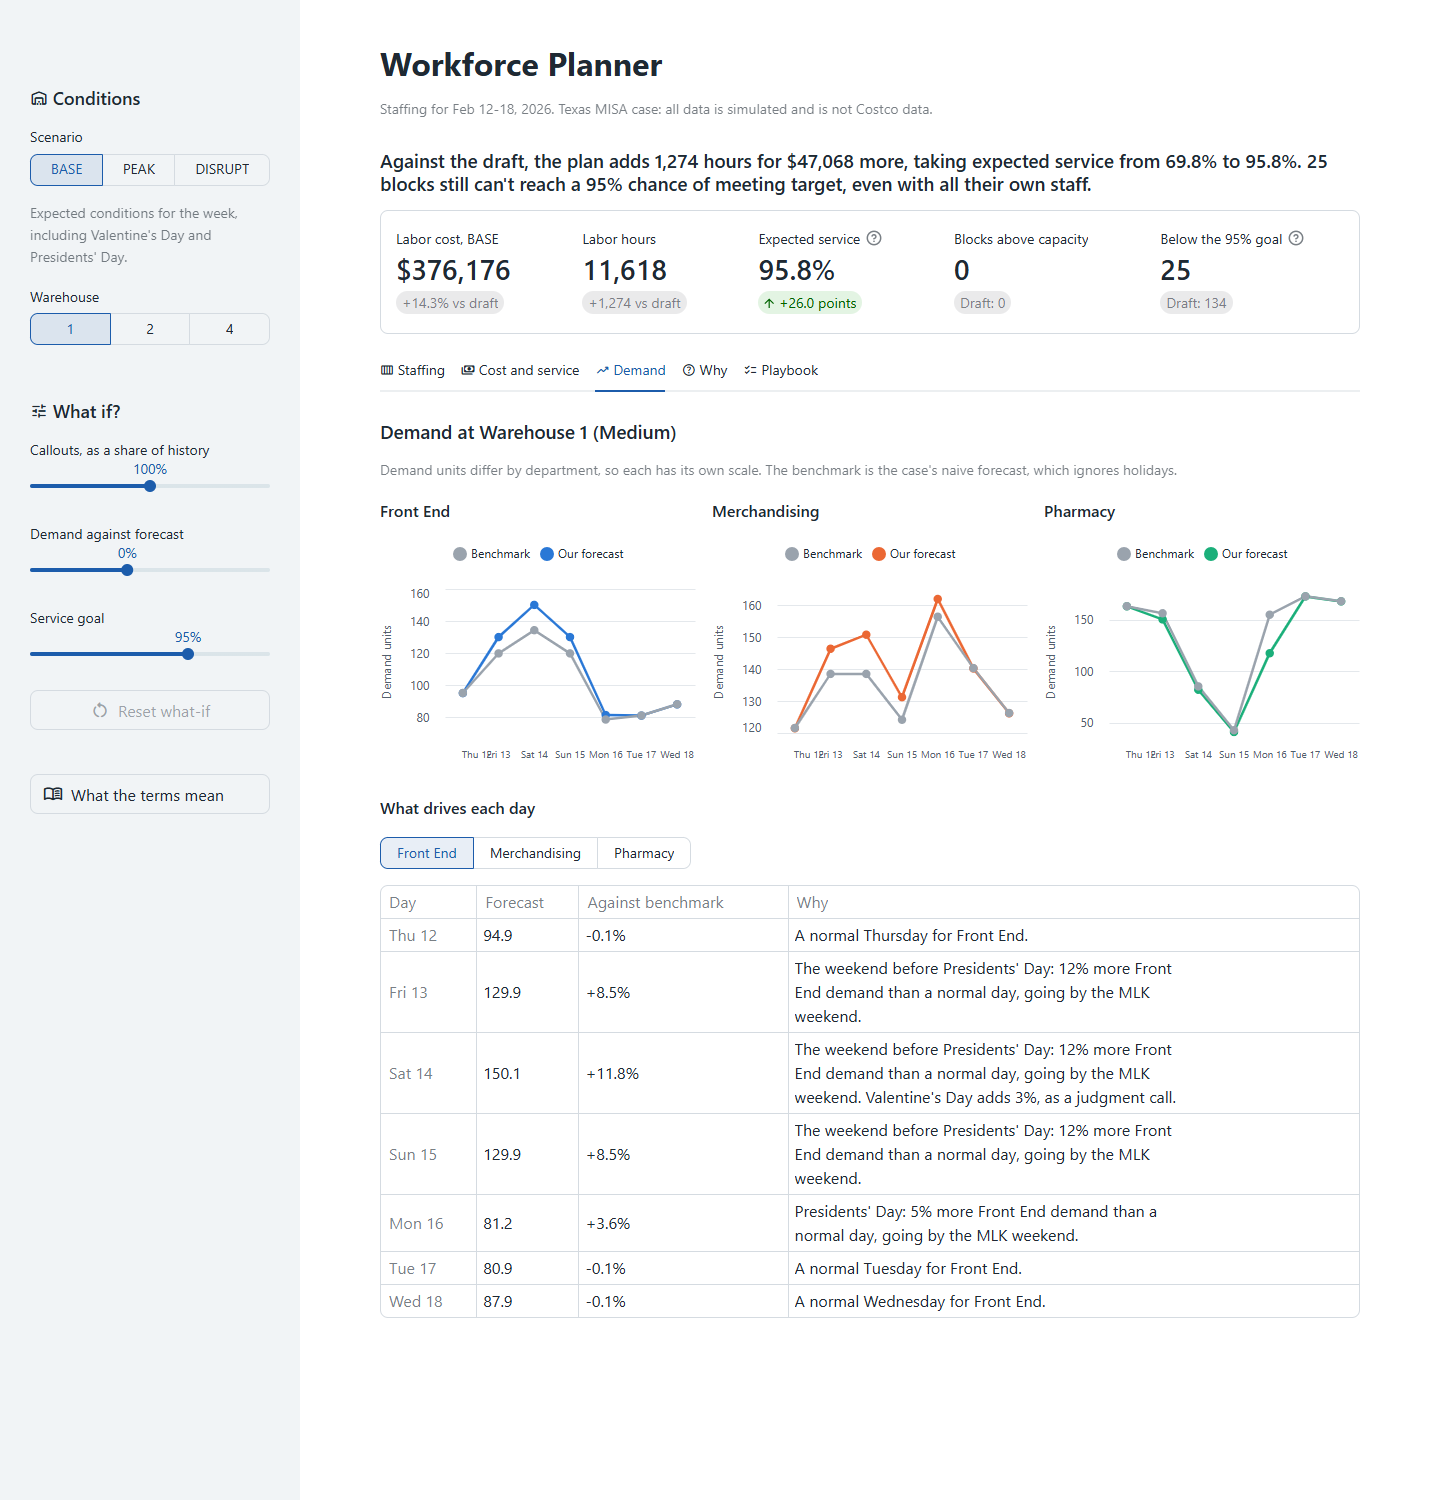
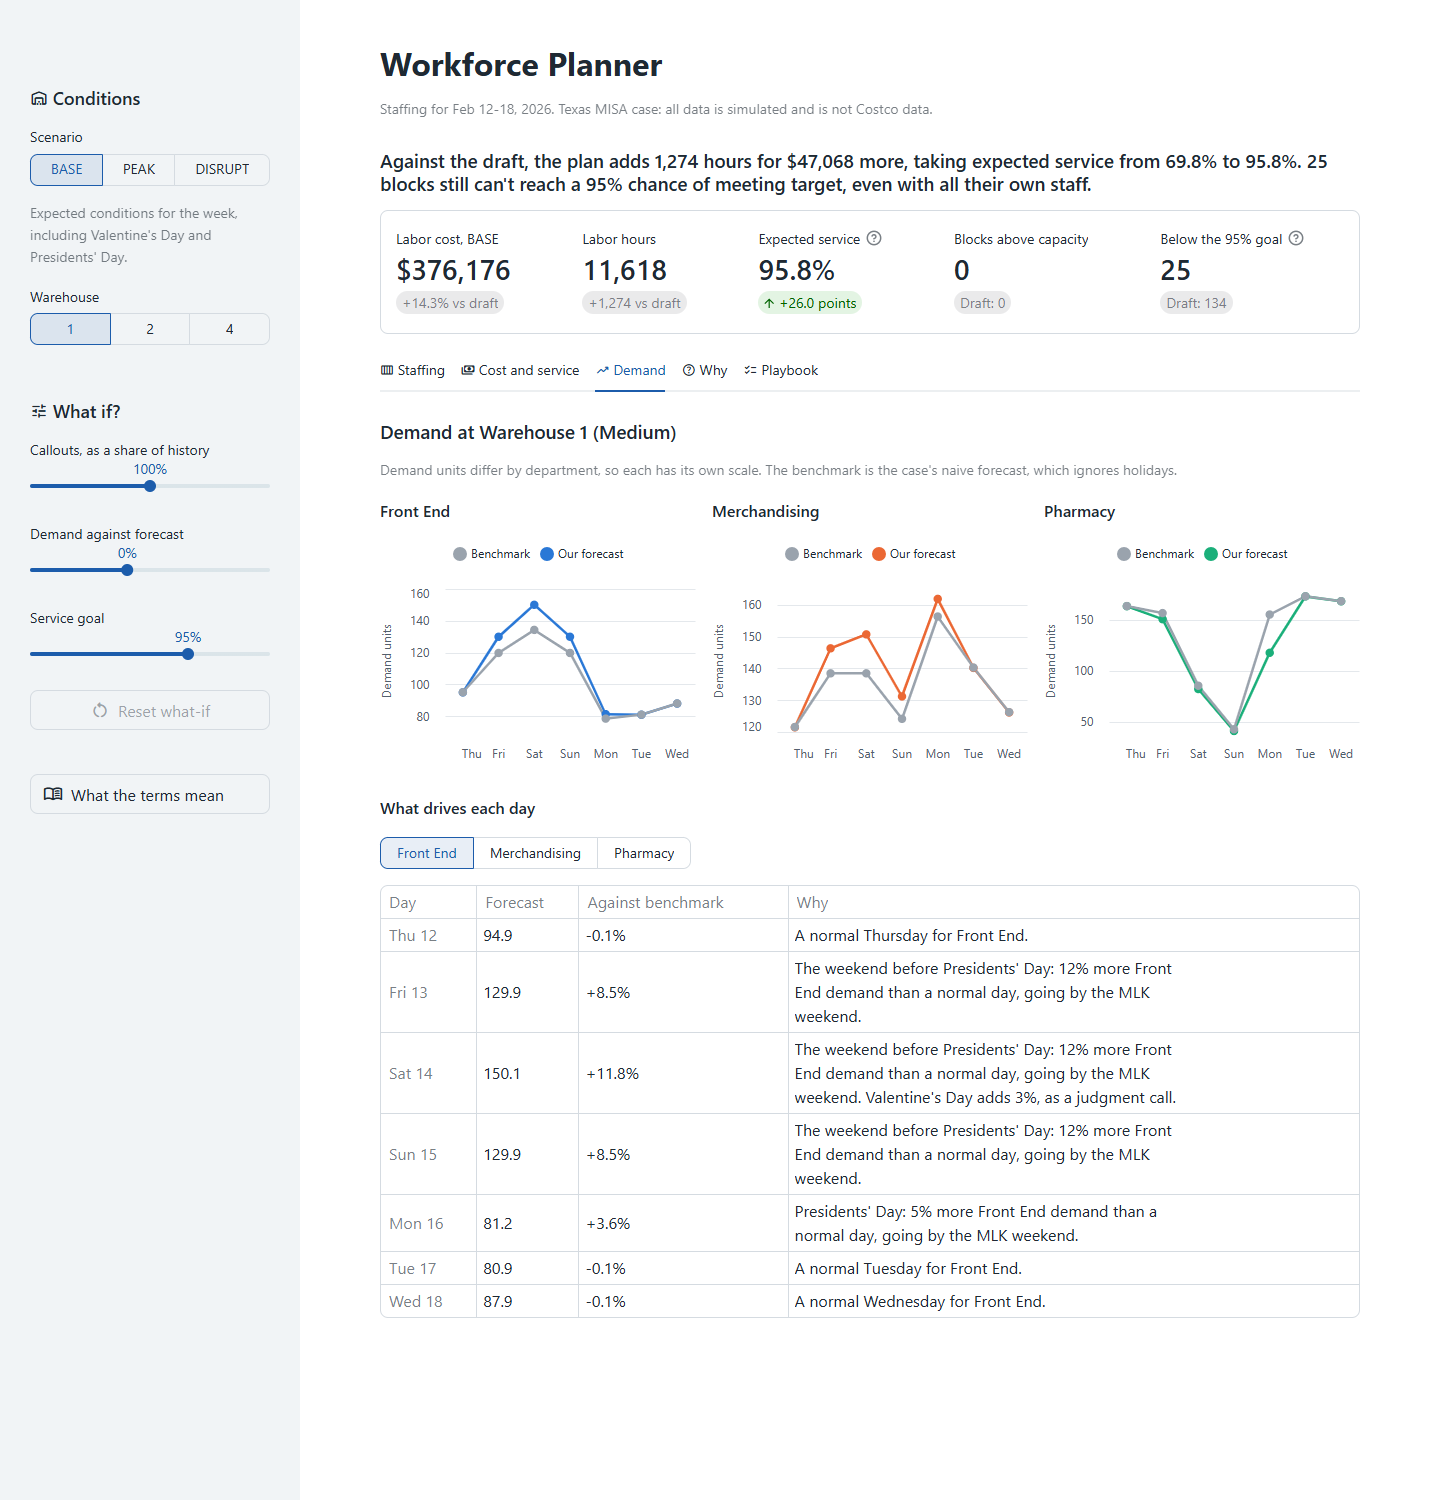
Stop day labels touching on the small demand charts

diff --git a/app.py b/app.py
@@ -113,10 +113,12 @@ def staffing_board(cells: pd.DataFrame, days: list[str]):
     return style(alt.layer(fill, numbers, clickable).resolve_scale(color="independent").properties(height=44 * len(BOARD_ROWS)))
 
 
-def week_lines(frame: pd.DataFrame, days: list[str], value: str, series: str, colors: dict, y_title: str, number_format: str, y_domain=None, height=290, day_size=12):
+def week_lines(frame: pd.DataFrame, days: list[str], value: str, series: str, colors: dict, y_title: str, number_format: str, y_domain=None, height=290, short_days=False):
     """Lines across the week. Hovering over a day shows every series for that day."""
     scale = alt.Scale(domain=list(colors), range=list(colors.values()))
-    x = alt.X("day:N", sort=days, title=None, axis=alt.Axis(labelAngle=0, labelOverlap=False, labelFontSize=day_size, ticks=False))
+    # Narrow charts show only the weekday on the axis. The hover readout still gives the full date.
+    label_text = "split(datum.label, ' ')[0]" if short_days else "datum.label"
+    x = alt.X("day:N", sort=days, title=None, axis=alt.Axis(labelAngle=0, labelOverlap=False, labelExpr=label_text, ticks=False))
     base = alt.Chart(frame).encode(
         x=x,
         y=alt.Y(f"{value}:Q", title=y_title, scale=alt.Scale(domain=y_domain) if y_domain else alt.Scale(zero=False), axis=alt.Axis(ticks=False, domain=False)),
@@ -393,7 +395,7 @@ with demand_tab:
         long["series"] = long["series"].map({"forecast": "Our forecast", "benchmark": "Benchmark"})
         with column:
             st.markdown(f"**{name}**")
-            st.altair_chart(week_lines(long, days, "units", "series", {"Benchmark": DRAFT_COLOR, "Our forecast": DEPARTMENT_COLORS[name]}, "Demand units", ",.1f", height=240, day_size=10), width="stretch")
+            st.altair_chart(week_lines(long, days, "units", "series", {"Benchmark": DRAFT_COLOR, "Our forecast": DEPARTMENT_COLORS[name]}, "Demand units", ",.1f", height=240, short_days=True), width="stretch")
     st.markdown("**What drives each day**")
     driver_department = st.segmented_control("Department", list(DEPT_NAMES.values()), default="Front End", required=True, key="driver_department", label_visibility="collapsed")
     drivers = daily[daily["department"] == driver_department]
